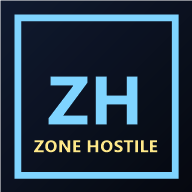
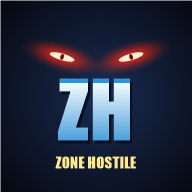
Preparation de l'appli Android : icones adaptatives, manifeste complet, bouton "Installer l'appli", guide
- Nouvelles icones (yeux rouges + ZH) en versions normale et maskable (192/512)
- Manifeste : id, categories, icones maskable ; netlify.toml : en-tetes pour downloads/*.apk et .well-known/assetlinks.json
- Accueil : bouton "Installer l'appli (Android)" (telecharge downloads/ZoneHostile.apk quand il existe), installation web-app sur PC, aide iPhone
- GUIDE-APPLI.md : fabriquer l'APK avec PWABuilder, le deployer, Play Store / App Store ; .gitignore : cles de signature

diff --git a/index.html b/index.html
@@ -716,6 +716,7 @@
     </div>
     <button class="menu-btn" id="btn-solo">🎯 Tutoriel / Hors ligne</button>
     <div id="home-status"></div>
+    <button class="menu-btn small" id="btn-install" style="display:none"></button>
   </div>
   <div id="duel-choice" style="display:none">
     <div class="box">
@@ -7794,6 +7795,29 @@ const pvClock = new THREE.Clock();
 })();
 
 // La partie démarre via le menu d'accueil (beginGame) ; la scène tourne en fond
+// ---------- Bouton « Installer l'appli » : Android → vraie appli (APK à télécharger) ; PC → web-app dans sa propre fenêtre ----------
+// L'APK (créé avec PWABuilder, voir GUIDE-APPLI.md) se dépose dans downloads/ZoneHostile.apk : tant qu'il n'existe pas, le bouton reste caché.
+const APK_URL = 'downloads/ZoneHostile.apk';
+(function installButton() {
+  const btn = $('btn-install'), ua = navigator.userAgent;
+  const isAndroid = /Android/i.test(ua), isIos = /iPhone|iPad|iPod/i.test(ua);
+  const inApp = (document.referrer || '').startsWith('android-app://') || matchMedia('(display-mode: fullscreen)').matches
+    || matchMedia('(display-mode: standalone)').matches || navigator.standalone;
+  if (inApp) return;                                   // on est déjà dans l'appli installée
+  let deferred = null;
+  const show = txt => { btn.textContent = txt; btn.style.display = ''; };
+  addEventListener('beforeinstallprompt', e => { e.preventDefault(); deferred = e; if (!isAndroid) show('📲 Installer sur cet ordinateur'); });
+  if (isAndroid) {
+    fetch(APK_URL, { method: 'HEAD' }).then(r => { if (r.ok && !/text\/html/.test(r.headers.get('content-type') || '')) show('📲 Installer l\'appli (Android)'); }).catch(() => {});
+  } else if (isIos) show('📲 Ajouter à l\'écran d\'accueil');
+  btn.onclick = () => {
+    if (isAndroid) location.href = APK_URL;
+    else if (isIos) homeStatus('Sur iPhone : touche « Partager » puis « Sur l\'écran d\'accueil »');
+    else if (deferred) { deferred.prompt(); deferred = null; btn.style.display = 'none'; }
+  };
+  addEventListener('appinstalled', () => { btn.style.display = 'none'; });
+})();
+
 // ---------- Pseudo demandé avant d'entrer dans un salon (une fois par visite ; il reste modifiable dans le salon) ----------
 let pseudoOk = false, pseudoNext = null;
 function askPseudo(next) {

diff --git a/GUIDE-APPLI.md b/GUIDE-APPLI.md
@@ -1,0 +1,42 @@
+# 📲 Zone Hostile en vraie appli (APK Android) + stores
+
+## 1. Fabriquer l'APK (gratuit, rien à installer)
+
+1. Le site doit être à jour sur Netlify (manifeste + icônes de ce dépôt déjà poussés).
+2. Va sur **https://www.pwabuilder.com**, colle l'adresse de ton site Netlify, clique **Start**.
+3. Attends l'analyse (le manifeste et le service worker doivent être validés), puis **Package for stores → Android**.
+4. Réglages conseillés :
+   - **Package ID** : unique et définitif, par exemple `com.liliboukhalfi.zonehostile` (impossible à changer après publication).
+   - **App name** : Zone Hostile · **Version** : 1.0.0 · **Version code** : 1.
+   - **Display mode** : Fullscreen · **Orientation** : Landscape.
+   - **Signing key** : *Create new* → **garde précieusement** le fichier `signing.keystore` et `signing-key-info.txt` (mot de passe). Sans eux, impossible de mettre l'appli à jour sur le Play Store. Ces fichiers ne doivent **jamais** aller sur GitHub (déjà ignorés par `.gitignore`).
+5. Télécharge le zip : tu y trouves un **`.apk`** (à installer directement), un **`.aab`** (pour le Play Store) et un **`assetlinks.json`**.
+
+## 2. Mettre l'APK sur le site (bouton « Installer l'appli »)
+
+1. Copie le `.apk` dans le dossier `downloads/` de ce dépôt et renomme-le **`ZoneHostile.apk`**.
+2. Copie `assetlinks.json` dans **`.well-known/assetlinks.json`** (dossier à créer). Ça supprime la barre d'adresse dans l'appli.
+3. Pousse sur GitHub : Netlify met tout en ligne. Sur un téléphone Android, le bouton **« 📲 Installer l'appli (Android) »** apparaît alors sur l'accueil du jeu.
+4. Sur le téléphone : touche le bouton → ouvre le fichier téléchargé → autorise l'installation depuis cette source (Android le demande une fois).
+
+> Mises à jour : l'appli charge le site en direct, donc **chaque push sur Netlify met l'appli à jour toute seule**. Un nouvel APK n'est utile que si tu changes l'icône, le nom ou le Package ID.
+
+## 3. Play Store (Android)
+
+- Compte **Google Play Console** : 25 $ une seule fois, vérification d'identité.
+- Compte personnel récent : **test fermé de 14 jours avec au moins 12 testeurs** avant de pouvoir publier en production (règle en vigueur à ma dernière vérification : à re-contrôler).
+- À fournir : le fichier **.aab**, icône 512×512, image de présentation 1024×500, au moins 2 captures d'écran, description courte et longue, **politique de confidentialité (URL)**, questionnaire de classification (jeu de tir : classement PEGI 12/16 environ), formulaire « Sécurité des données ».
+- Délai de validation : de quelques heures à quelques jours.
+
+## 4. App Store (iPhone)
+
+- Compte **Apple Developer Program** : 99 $ par an.
+- Il faut un **Mac avec Xcode** (ou un service de compilation en ligne). PWABuilder peut générer le projet Xcode.
+- Apple refuse souvent les applis qui ne sont qu'un site dans une coque (règle 4.2) : il faut des fonctions vraiment natives (Capacitor + vibrations/haptique natives, etc.). C'est la partie la plus risquée.
+- À fournir : captures par taille d'appareil, politique de confidentialité, classement d'âge (violence : 12+ ou 17+), puis passage en **TestFlight** avant la soumission.
+
+## 5. À vérifier avant de publier sur un store
+
+- **Licences des ressources** : modèles VRM chargés depuis `madjin/vrm-samples` (VRoid), modèle de soldat, sons (pack « 10 Glitch Sounds » libre de droits, musique CC0 de Tsorthan Grove), polices Google Fonts (libres). Les stores peuvent exiger la preuve que tu as le droit de redistribuer chaque élément.
+- **Données personnelles** : le jeu envoie pseudo et position aux autres joueurs (PeerJS + relais Metered) : à déclarer dans la politique de confidentialité.
+- **Contenu** : jeu de tir avec sang : choisir le bon classement d'âge.
